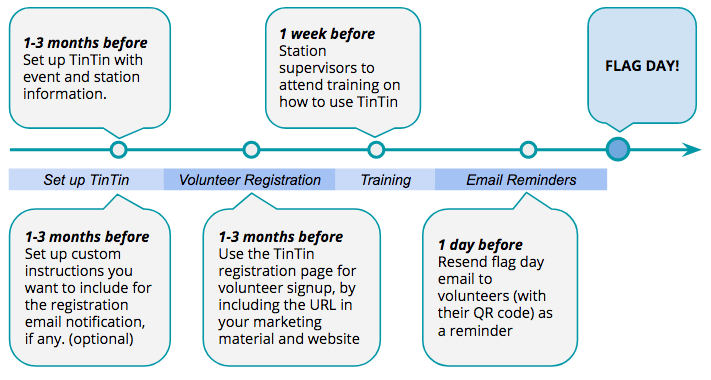
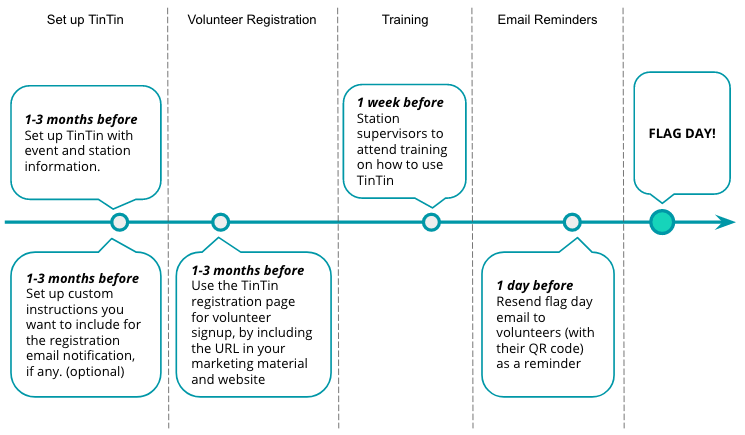
Edited timeline image(s) to show breakup of timeline in mobile mode

diff --git a/css/main.css b/css/main.css
@@ -1,1 +1,1 @@
-header{position:relative;width:100%;min-height:auto;overflow-y:hidden;background:url(../img/header_bg.png),#13B09B;background-size:100%;color:#fff}header .header-content{padding:100px 0 50px}section.bg-primary{background:#13B09B}.navbar-default .nav>li.active>a,.navbar-default .nav>li.active>a:focus{color:#13B09B!important;background-color:transparent}.navbar-default .navbar-header .navbar-brand{color:#13B09B}section.features .section-heading{margin-bottom:50px}section.features .feature-item{max-width:none}section.features .feature-item i{font-size:30px;background:#13B09B;-webkit-background-clip:text;-webkit-text-fill-color:transparent}section.features .feature-item .text-muted{text-align:center;font-size:16px}#howitworks .section-heading{margin-bottom:20px}.youtubevideowrap{width:80%;max-width:640px;margin:0 auto 55px}.video-container{position:relative;padding-bottom:50%;padding-top:30px;height:0;overflow:hidden;max-width:600px;max-height:400px;margin:auto}.video-container embed,.video-container iframe,.video-container object{position:absolute;top:0;left:0;width:100%;height:100%;max-width:600px;max-height:400px}#timeline .img-responsive{margin:auto}#signup{color:#13B09B;margin-top:50px}#signup.active,#signup:active,#signup:focus,#signup:hover{color:#fff;background-color:#13B09B;border-color:#13B09B}section.cost .section-heading{margin-bottom:50px}section.cost .feature-item i{font-size:30px;background:#fff;-webkit-background-clip:text;-webkit-text-fill-color:transparent}#vwos{border-top:solid 1px #CCC}#vwos .section-heading{margin-bottom:50px}#vwos .logos img{height:70px;margin:20px}.btn-outline.active,.btn-outline:active,.btn-outline:focus,.btn-outline:hover{color:#000;background-color:#fff;border-color:#fff}.web-version{display:block}.mobile-version{display:none}@media (min-width:992px){section.features .feature-item{max-width:300px}section.features .feature-item .text-muted{text-align:left;font-size:16px}section.cost .feature-item .icon{text-align:right}section.cost .feature-item .text{text-align:left}}
+header{position:relative;width:100%;min-height:auto;overflow-y:hidden;background:url(../img/header_bg.png),#13B09B;background-size:100%;color:#fff}header .header-content{padding:100px 0 50px}section.bg-primary{background:#13B09B}.navbar-default .nav>li.active>a,.navbar-default .nav>li.active>a:focus{color:#13B09B!important;background-color:transparent}.navbar-default .navbar-header .navbar-brand{color:#13B09B}section.features .section-heading{margin-bottom:50px}section.features .feature-item{max-width:none}section.features .feature-item i{font-size:30px;background:#13B09B;-webkit-background-clip:text;-webkit-text-fill-color:transparent}section.features .feature-item .text-muted{text-align:center;font-size:16px}#howitworks .section-heading{margin-bottom:20px}.youtubevideowrap{width:80%;max-width:640px;margin:0 auto 55px}.video-container{position:relative;padding-bottom:50%;padding-top:30px;height:0;overflow:hidden;max-width:600px;max-height:400px;margin:auto}.video-container embed,.video-container iframe,.video-container object{position:absolute;top:0;left:0;width:100%;height:100%;max-width:600px;max-height:400px}#timeline .img-responsive{margin:auto}#signup{color:#13B09B;margin-top:50px}#signup.active,#signup:active,#signup:focus,#signup:hover{color:#fff;background-color:#13B09B;border-color:#13B09B}section.cost .section-heading{margin-bottom:50px}section.cost .feature-item i{font-size:30px;background:#fff;-webkit-background-clip:text;-webkit-text-fill-color:transparent}#vwos{border-top:solid 1px #CCC}#vwos .section-heading{margin-bottom:50px}#vwos .logos img{height:70px;margin:20px}.btn-outline.active,.btn-outline:active,.btn-outline:focus,.btn-outline:hover{color:#000;background-color:#fff;border-color:#fff}.web-version{display:none}.mobile-version{display:block}@media (min-width:992px){section.features .feature-item{max-width:300px}section.features .feature-item .text-muted{text-align:left;font-size:16px}section.cost .feature-item .icon{text-align:right}section.cost .feature-item .text{text-align:left}.web-version{display:block}.mobile-version{display:none}}

diff --git a/less/main.less b/less/main.less
@@ -145,21 +145,14 @@ section.cost{
 
 
 /* Mobile/Web Manipulation */
-/*
+
 .web-version{
 	display:none;
 }
 
 .mobile-version{
 	display:block;
-}*/
-	.web-version{
-		display:block;
-	}
-
-	.mobile-version{
-		display:none;
-	}
+}
 
 @media (min-width: 992px){
 	section.features .feature-item{
@@ -179,12 +172,12 @@ section.cost{
 			text-align:left;
 		}
 	}
-/*
+
 	.web-version{
 		display:block;
 	}
 
 	.mobile-version{
 		display:none;
-	}*/
+	}
 }
